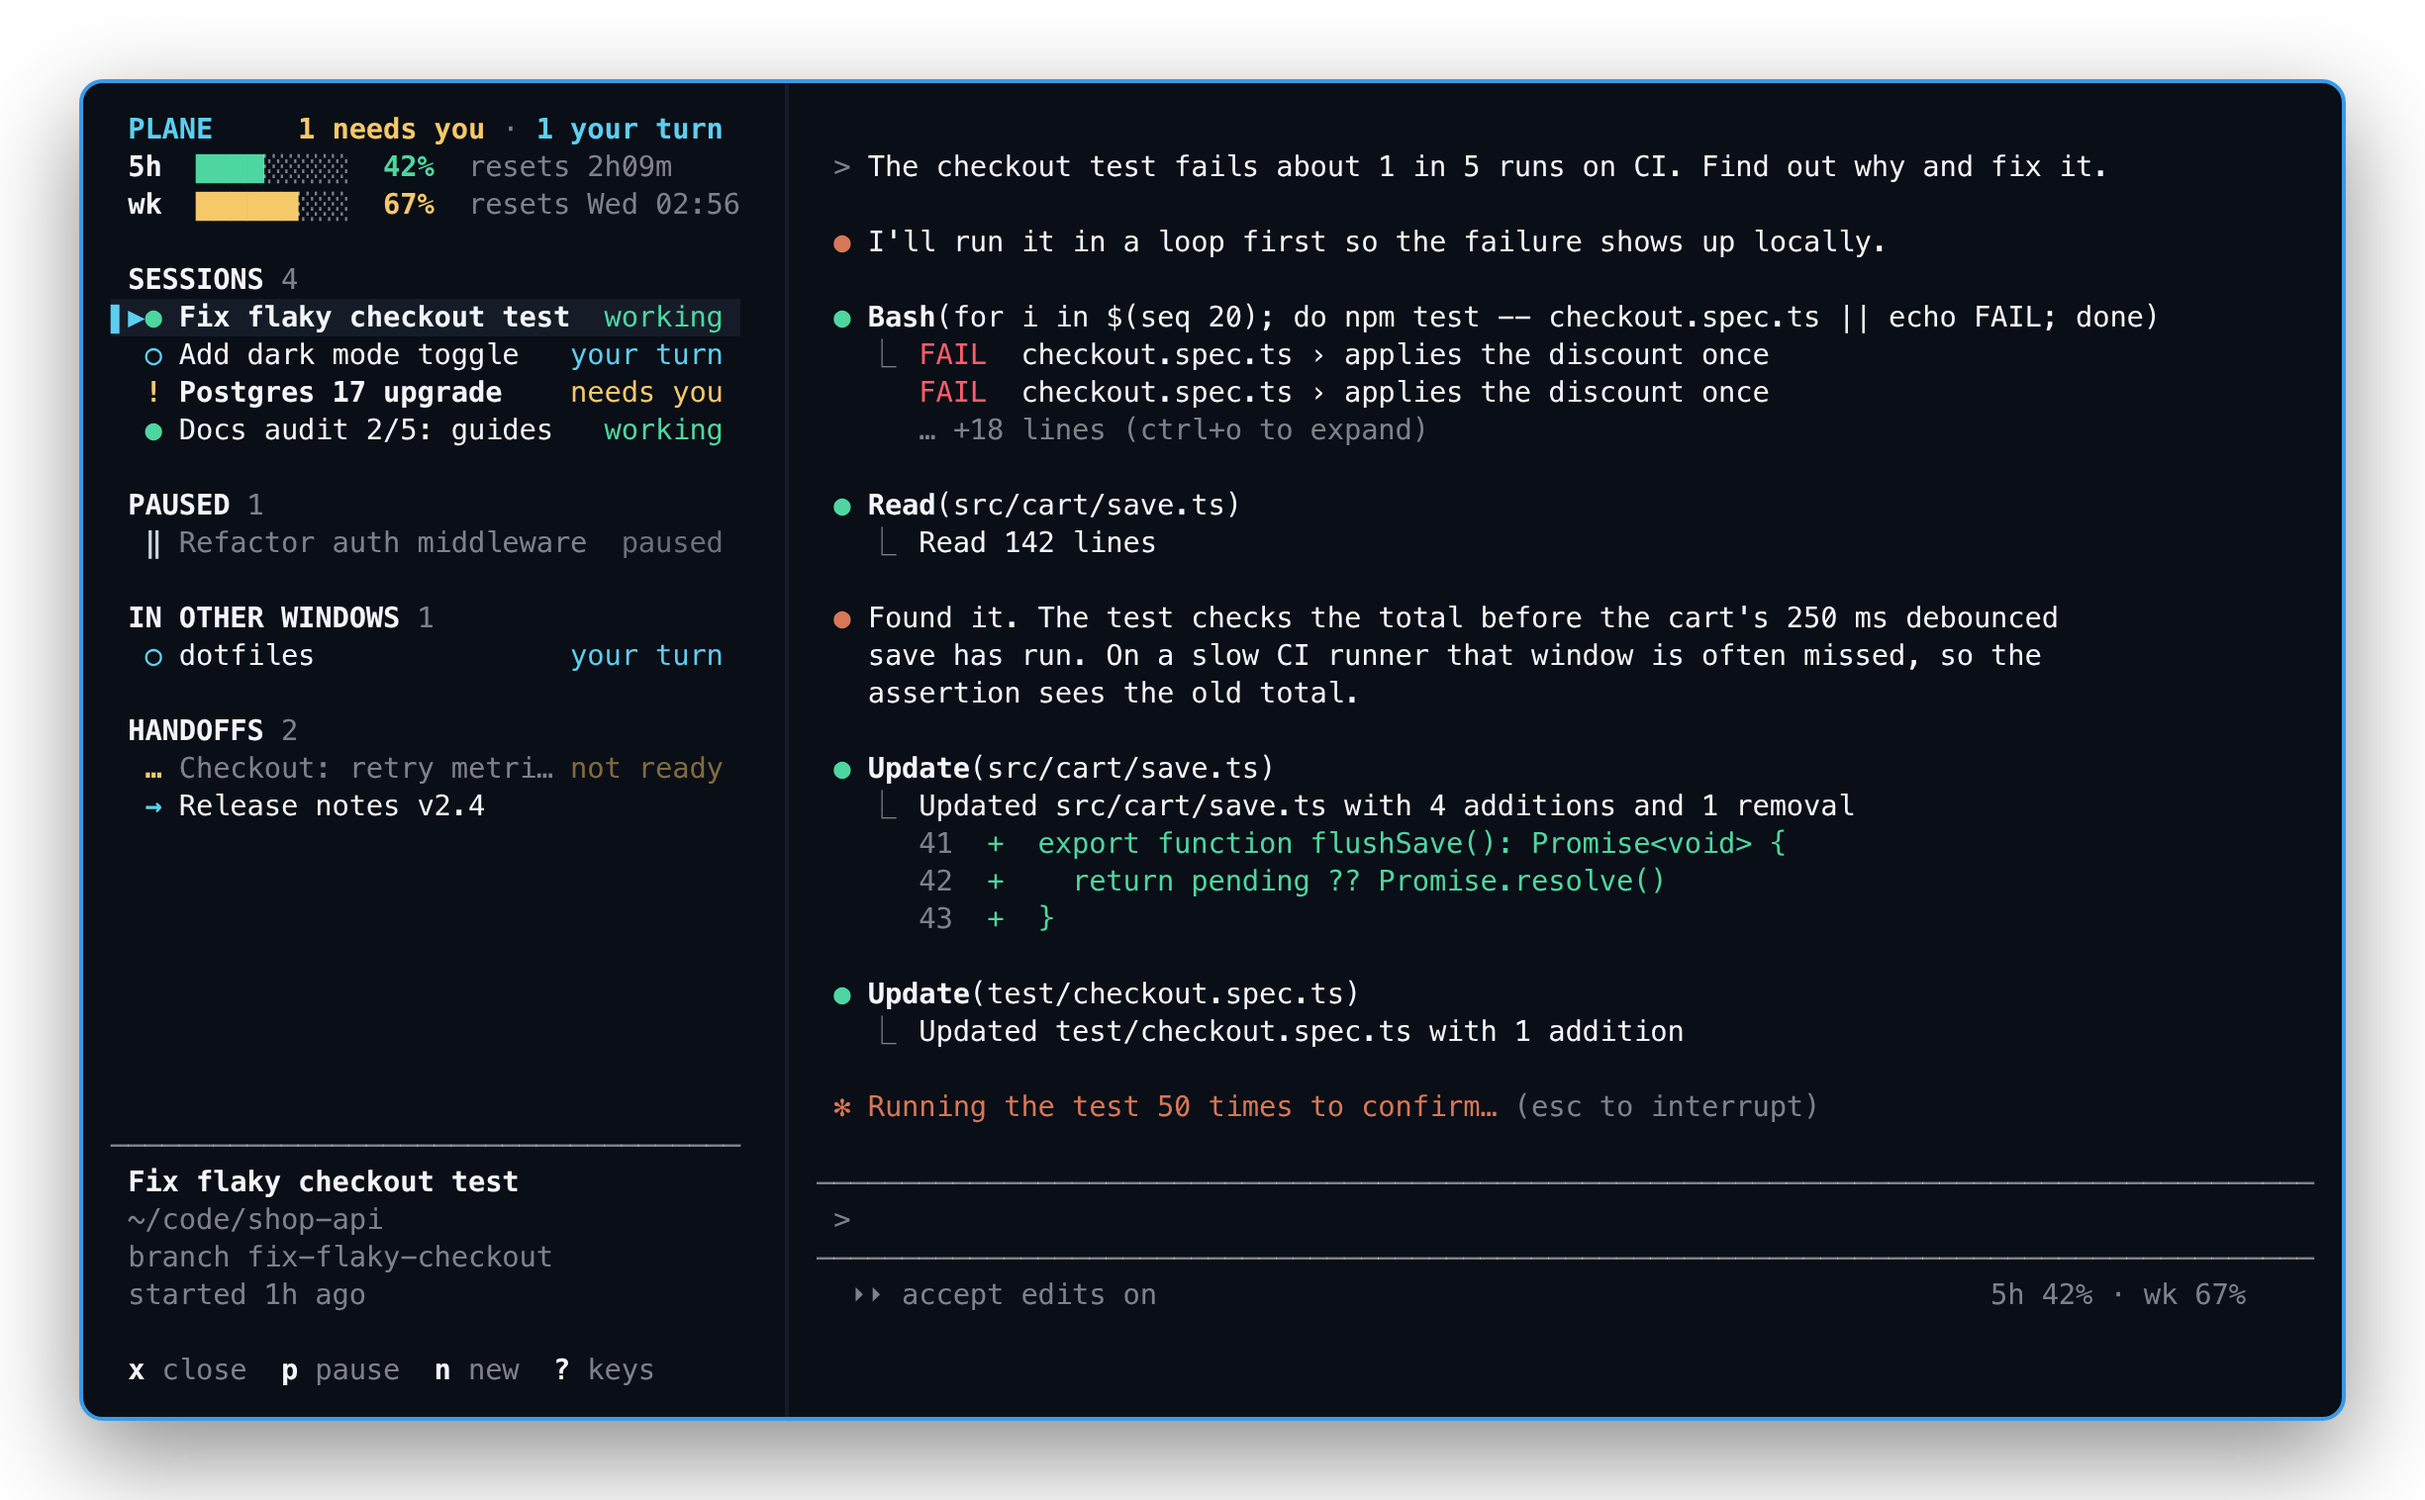
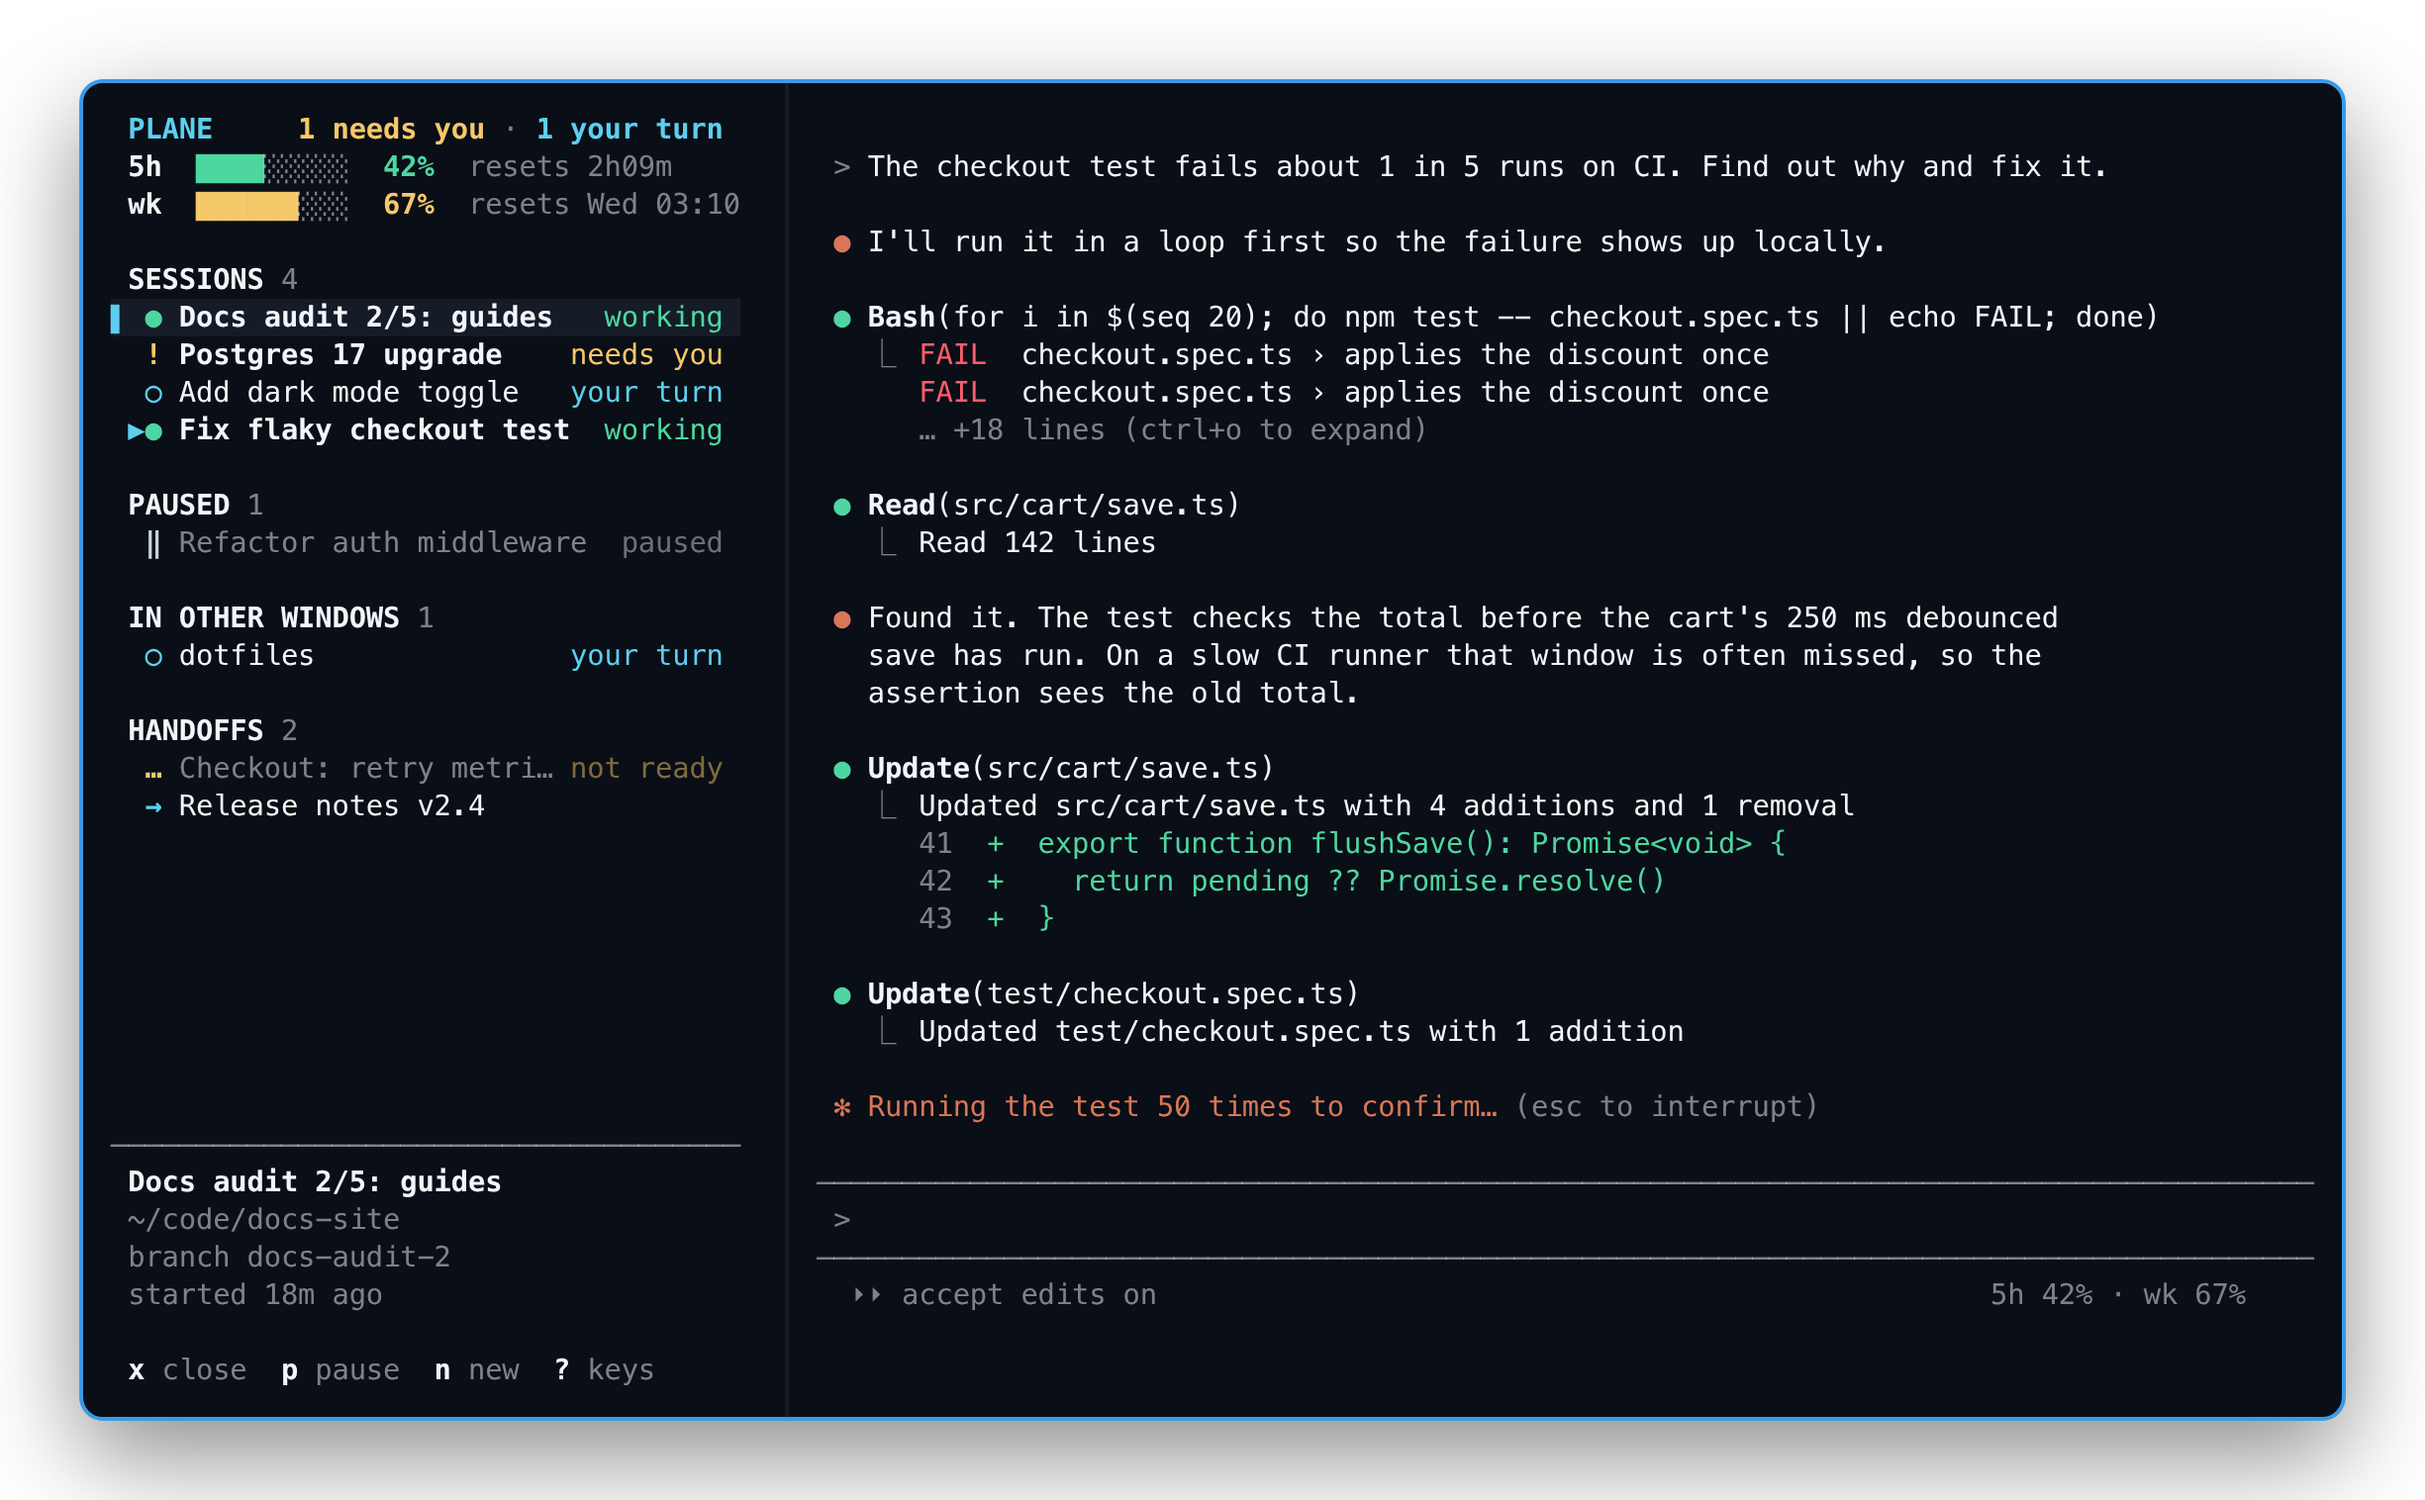
Most recently used first, standby under sessions, handoffs folded, true "needs you"
- SESSIONS lists the session you last messaged or opened at the top. Standby
  sessions (parked by Claude while waiting on you) sit at the bottom of SESSIONS
  instead of in their own section.
- HANDOFFS lists the newest four first; "N more handoffs" opens the rest and
  "show fewer" folds them again.
- A background session that ended its turn with a question while one of its own
  tasks (a background shell, a CI watch) still ran showed "working" until you
  opened it: `claude agents` reports busy while any task runs. The state now
  comes from the session's own status (busy vs shell vs waiting) and its job's
  tempo, so it shows "needs you" as soon as it asks.
- A "your turn"/"needs you" notification is taken back when the session goes
  back to work, is paused or closed, or you open it, and a replaced one no
  longer leaves its notify-send waiting forever. Notifications left from before
  a restart are closed when the sidebar starts.

Claude-Session: https://claude.ai/code/session_019ZjAiyiqe3NpD55moxbVkR

Changed region(s): [[0.062, 0.186, 0.3102, 0.31], [0.062, 0.7751, 0.2171, 0.8681], [0.2792, 0.124, 0.3102, 0.155]]

diff --git a/README.md b/README.md
@@ -111,14 +111,20 @@ trigger sidebar keys.
 
 ### Sections
 
-- **SESSIONS:** your running background sessions.
-- **STANDBY:** sessions that were waiting on you when Claude Code put them to sleep (it does
-  this to background sessions left idle for a while) or the machine restarted. Nothing was
-  lost: open one and it picks up where it left off.
+- **SESSIONS:** your background sessions, the one you used last at the top (the last one
+  you sent a message to or opened). Below them come sessions on standby: ones that were
+  waiting on you when Claude Code put them to sleep (it does this to background sessions
+  left idle for a while) or the machine restarted. Nothing was lost: open one and it picks
+  up where it left off.
 - **PAUSED:** sessions you paused. Open one to continue it.
 - **IN OTHER WINDOWS:** Claude Code sessions running in ordinary terminals. Opening one
   switches to its window (on Hyprland).
-- **HANDOFFS:** queued prompts waiting to start as new sessions.
+- **HANDOFFS:** queued prompts waiting to start as new sessions, newest first. Only the
+  newest four are listed until you open the "N more handoffs" row.
+
+A session that ends its turn while one of its own tasks still runs (a background shell, a CI
+watch) shows *needs you* when it asked you something, and *working* when it's only waiting
+on that task. When a session goes back to work or you open it, its notification goes away.
 - **CUT OFF BY CRASH/REBOOT:** sessions that were working when the machine went down.
 
 ## Handoffs
@@ -162,7 +168,7 @@ With the hooks from `--claude`, every session keeps a small record in
 `~/.local/share/plane/live/` while it runs, and marks it when it ends normally. A session
 whose record is still open after its process is gone was cut off, so Plane lists it at
 the top of the sidebar, and Enter resumes it. A background session that was waiting on you
-rather than working goes under STANDBY instead, since nothing was interrupted. With `--autostart`, a notification at login
+rather than working is listed under SESSIONS on standby instead, since nothing was interrupted. With `--autostart`, a notification at login
 lists anything that was cut off plus handoffs still waiting.
 
 ## Hyprland
